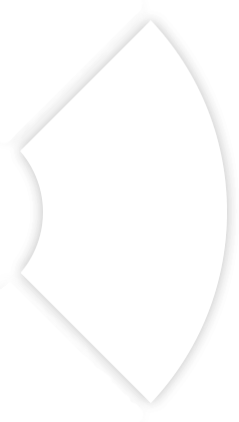
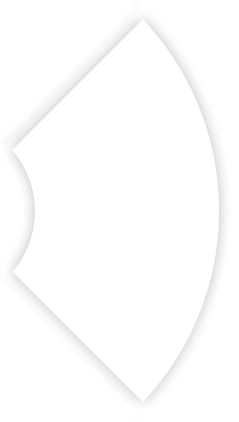
some styling for big circle

diff --git a/css/style_main.css b/css/style_main.css
@@ -1,13 +1,13 @@
 /* big circle */
 .big-sircle {
-  padding: 40px 0 40px 0;
+  padding: 40rem 0 40rem 0;
   text-align: center;
 }
 
 .big-circle-wrap {
   display: inline-block;
-  width: 684px;
-  height: 684px;
+  width: 594rem;
+  height: 594rem;
   position: relative;
 }
 
@@ -15,7 +15,7 @@
   -webkit-border-radius: 50%;
   -moz-border-radius: 50%;
   border-radius: 50%;
-  border: 1px solid #e5e4e5;
+  border: 1rem solid #e5e4e5;
   position: absolute;
   left: 0;
   top: 0;
@@ -27,16 +27,155 @@
   position: absolute;
   background-color: #fff;
   position: absolute;
-  top: 61px;
-  right: 61px;
-  bottom: 61px;
-  left: 61px;
+  top: 61rem;
+  right: 61rem;
+  bottom: 61rem;
+  left: 61rem;
   -webkit-border-radius: 50%;
   -moz-border-radius: 50%;
   border-radius: 50%;
-  -webkit-box-shadow: 0 0 12px 0 rgba(0, 0, 0, 0.12);
-  -moz-box-shadow: 0 0 12px 0 rgba(0, 0, 0, 0.12);
-  box-shadow: 0 0 12px 0 rgba(0, 0, 0, 0.12);
+  -webkit-box-shadow: 0 0 12rem 0 rgba(0, 0, 0, 0.12);
+  -moz-box-shadow: 0 0 12rem 0 rgba(0, 0, 0, 0.12);
+  box-shadow: 0 0 12rem 0 rgba(0, 0, 0, 0.12);
+}
+
+.big-sircle-list {
+  position: absolute;
+  width: 260rem;
+  font-size: 18rem;
+  color: #797f87;
+}
+
+.big-sircle-list .list-text {
+  display: inline-block;
+  vertical-align: top;
+  width: 230rem;
+}
+
+.big-sircle-list .list-num {
+  display: inline-block;
+  vertical-align: top;
+  font-weight: 300;
+  color: #c81526;
+  width: 22rem;
+}
+
+.big-sircle-part {
+  position: absolute;
+}
+
+.big-sircle-part.part-left, .big-sircle-part.part-right {
+  width: 239rem;
+  height: 422rem;
+  top: -webkit-calc(50% - 211rem);
+  top: -moz-calc(50% - 211rem);
+  top: calc(50% - 211rem);
+}
+
+.big-sircle-part.part-left .big-sircle-list li, .big-sircle-part.part-right .big-sircle-list li {
+  margin-bottom: 20rem;
+}
+
+.big-sircle-part.part-left .big-sircle-list li:last-child, .big-sircle-part.part-right .big-sircle-list li:last-child {
+  margin-bottom: 0;
+}
+
+.big-sircle-part.part-top, .big-sircle-part.part-bottom {
+  width: 422rem;
+  height: 239rem;
+  left: -webkit-calc(50% - 211rem);
+  left: -moz-calc(50% - 211rem);
+  left: calc(50% - 211rem);
+}
+
+.big-sircle-part.part-left {
+  left: 0;
+  background-image: url(../images/circle-part-left.png);
+}
+
+.big-sircle-part.part-left .big-sircle-list {
+  right: 100%;
+  top: 50%;
+  -webkit-transform: translate(0, -50%);
+  -moz-transform: translate(0, -50%);
+  -ms-transform: translate(0, -50%);
+  -o-transform: translate(0, -50%);
+  transform: translate(0, -50%);
+  margin-right: 50rem;
+}
+
+.big-sircle-part.part-left .big-sircle-list li {
+  text-align: right;
+}
+
+.big-sircle-part.part-right {
+  right: 0;
+  background-image: url(../images/circle-part-right.png);
+}
+
+.big-sircle-part.part-right .big-sircle-list {
+  left: 100%;
+  top: 50%;
+  -webkit-transform: translate(0, -50%);
+  -moz-transform: translate(0, -50%);
+  -ms-transform: translate(0, -50%);
+  -o-transform: translate(0, -50%);
+  transform: translate(0, -50%);
+}
+
+.big-sircle-part.part-top {
+  top: 0;
+  background-image: url(../images/circle-part-top.png);
+}
+
+.big-sircle-part.part-top .big-sircle-list {
+  bottom: 100%;
+  left: 50%;
+  -webkit-transform: translate(-50%, 0);
+  -moz-transform: translate(-50%, 0);
+  -ms-transform: translate(-50%, 0);
+  -o-transform: translate(-50%, 0);
+  transform: translate(-50%, 0);
+}
+
+.big-sircle-part.part-bottom {
+  bottom: 0;
+  background-image: url(../images/circle-part-bottom.png);
+}
+
+.big-sircle-part.part-bottom .big-sircle-list {
+  top: 100%;
+  left: 50%;
+  -webkit-transform: translate(-50%, 0);
+  -moz-transform: translate(-50%, 0);
+  -ms-transform: translate(-50%, 0);
+  -o-transform: translate(-50%, 0);
+  transform: translate(-50%, 0);
+}
+
+.big-sircle-part .big-sircle-part-item, .big-sircle-part .big-sicrcle-part-item-active {
+  position: absolute;
+  left: 0;
+  top: 0;
+  opacity: 0;
+}
+
+.big-circle-wrap-center {
+  position: absolute;
+  width: 158rem;
+  height: 158rem;
+  top: -webkit-calc(50% - 79rem);
+  top: -moz-calc(50% - 79rem);
+  top: calc(50% - 79rem);
+  left: -webkit-calc(50% - 79rem);
+  left: -moz-calc(50% - 79rem);
+  left: calc(50% - 79rem);
+  -webkit-border-radius: 50%;
+  -moz-border-radius: 50%;
+  border-radius: 50%;
+  -webkit-box-shadow: 0 0 27rem 0 rgba(169, 23, 38, 0.55);
+  -moz-box-shadow: 0 0 27rem 0 rgba(169, 23, 38, 0.55);
+  box-shadow: 0 0 27rem 0 rgba(169, 23, 38, 0.55);
 }
 
 /* /big cirlce */

diff --git a/sass/style_main.scss b/sass/style_main.scss
@@ -1,8 +1,39 @@
 /* big circle */
 
-.big-sircle{padding:  40px 0 40px 0;text-align: center;}
-.big-circle-wrap{display: inline-block;width: 684px;height: 684px;position: relative;}
-.big-sircle-wrap-outside{border-radius: 50%;border:1px solid #e5e4e5;position: absolute;left: 0;top: 0;right:0;bottom:0;}
-.big-sircle-wrap-inside{position: absolute;background-color: #fff;position: absolute;top:61px;right: 61px;bottom: 61px;left:61px;border-radius: 50%;box-shadow:0 0 12px 0 rgba(0,0,0,.12);}
+.big-sircle{padding:  40rem 0 40rem 0;text-align: center;}
+.big-circle-wrap{display: inline-block;width: 594rem;height: 594rem;position: relative;}
+.big-sircle-wrap-outside{border-radius: 50%;border:1rem solid #e5e4e5;position: absolute;left: 0;top: 0;right:0;bottom:0;}
+.big-sircle-wrap-inside{position: absolute;background-color: #fff;position: absolute;top:61rem;right: 61rem;bottom: 61rem;left:61rem;border-radius: 50%;box-shadow:0 0 12rem 0 rgba(0,0,0,.12);}
+.big-sircle-list{position: absolute;width: 260rem;font-size: 18rem;color:#797f87;
+    .list-text{display: inline-block;vertical-align: top;width: 230rem;}
+    .list-num{display: inline-block;vertical-align: top;font-weight: 300;color:#c81526;width: 22rem;}
+}
+.big-sircle-part{position: absolute;
+    &.part-left, &.part-right{width: 239rem;height: 422rem;top:calc(50% - 211rem);
+        .big-sircle-list{
+            li{margin-bottom: 20rem;
+                &:last-child{margin-bottom: 0;}
+            }
+        }
+    }
+    &.part-top, &.part-bottom{width: 422rem;height: 239rem;left:calc(50% - 211rem);}
+    &.part-left{left: 0;background-image:url(../images/circle-part-left.png);
+        .big-sircle-list{right: 100%;top:50%;transform:translate(0, -50%);margin-right: 50rem;
+            li{text-align: right;}
+        }
+    }
+    &.part-right{right:0;background-image:url(../images/circle-part-right.png);
+        .big-sircle-list{left:100%;top:50%;transform:translate(0, -50%);}
+    }
+    &.part-top{top:0;background-image:url(../images/circle-part-top.png);
+        .big-sircle-list{bottom:100%;left:50%;transform:translate(-50%, 0);}
+    }
+    &.part-bottom{bottom:0;background-image:url(../images/circle-part-bottom.png);
+        .big-sircle-list{top: 100%;left: 50%;transform:translate(-50%, 0);}
+    }
+    .big-sircle-part-item, .big-sicrcle-part-item-active{position: absolute;left: 0;top: 0;opacity: 0;}
+}
+.big-circle-wrap-center{position: absolute;width: 158rem;height: 158rem;top: calc(50% - 79rem);left: calc(50% - 79rem);border-radius: 50%;box-shadow:0 0 27rem 0 rgba(169, 23, 38, .55);}
+
 
 /* /big cirlce */

diff --git a/partials/big-sircle.php b/partials/big-sircle.php
@@ -2,7 +2,7 @@
     <div class="big-circle-wrap">
         <div class="big-sircle-wrap-outside">
             <div class="big-circle-wrap-inside">
-                <div class="big-sircle-part">
+                <div class="big-sircle-part part-left">
                     <div class="big-sircle-list">
                         <ul>
                             <li>
@@ -43,7 +43,7 @@
                         </div>
                     </div>
                 </div>
-                <div class="big-sircle-part">
+                <div class="big-sircle-part part-top">
                     <div class="big-sircle-list">
                         <ul>
                             <li>
@@ -75,7 +75,7 @@
                         </div>
                     </div>
                 </div>
-                <div class="big-sircle-part">
+                <div class="big-sircle-part part-right">
                     <div class="big-sircle-list">
                         <ul>
                             <li>
@@ -120,7 +120,7 @@
                         </div>
                     </div>
                 </div>
-                <div class="big-circle-part">
+                <div class="big-sircle-part part-bottom">
                     <div class="big-sircle-list">
                         <ul>
                             <li>
